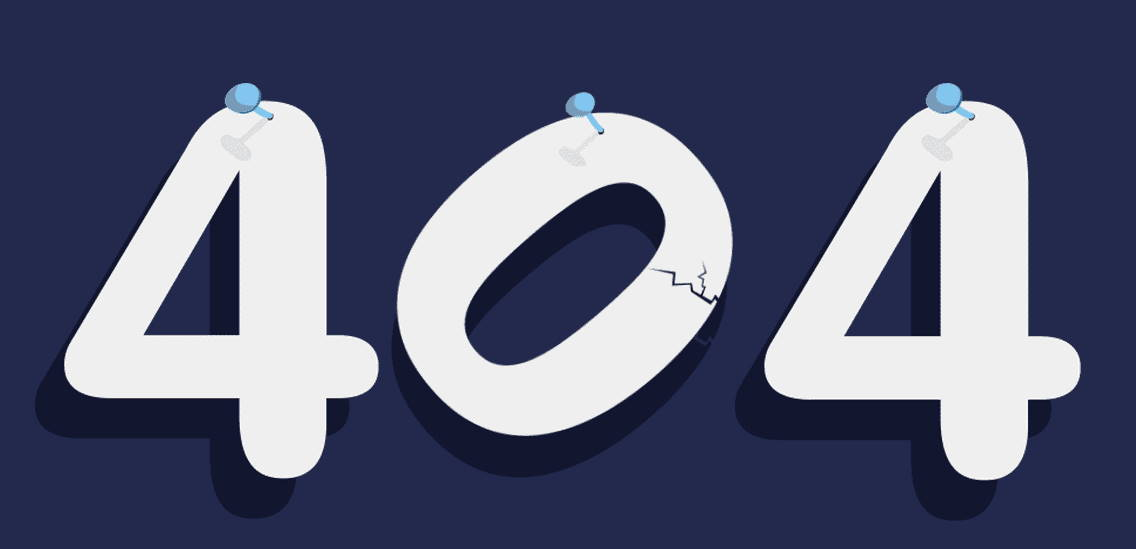
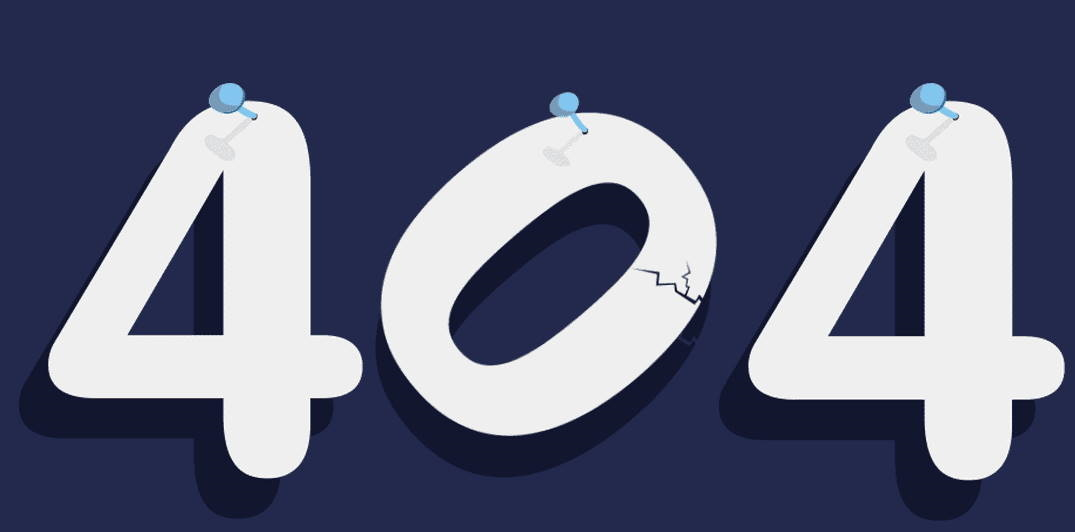
fixed

diff --git a/index.css b/index.css
@@ -7,42 +7,41 @@ body {
 main {
   background-color: #23294c;
   object-fit: contain;
-  width: 1050px;
-  height: 530px;
-  margin-left: 180px;
-  margin-top: 40px;
+  width: 1084px;
+  height: 558px;
+  margin-left: 141px;
+  margin-top: 35px;
 }
 
 #left {
   height: 100%;
-  width: 45%;
+  width: 300px;
   float: left;
   background-color: #23294c;
   object-fit: contain;
-  height: 530px;
+  margin-left: 150px;
 }
 
 #right {
   height: 100%;
-  width: 55%;
+  width: 484px;
   float: right;
   background-color: #23294c;
   object-fit: contain;
-  height: 530px;
+  margin-right: 150px;
 }
 
 #brick_wall {
   object-fit: contain;
-  width: 65%;
-  margin-top: 65px;
+  width: 100%;
+  margin-top: 75px;
   float: right;
-  margin-right: 15px;
 }
 
 #engineer {
   object-fit: contain;
-  width: 60%;
-  margin-top: 2px;
+  width: 100%;
+  margin-top: 23px;
   float: right;
   margin-right: 20px;
 }
@@ -50,12 +49,13 @@ main {
 #nr404 {
   display: inline-block;
   object-fit: contain;
-  width: 85%;
-  margin-top: 14px;
+  width: 100%;
+  margin-top: 16px;
 }
 
 .text {
-  margin-left: 30px;
+  margin-left: 25px;
+  width: 100%;
 }
 
 h1 {
@@ -74,7 +74,7 @@ p {
   margin-top: 0;
   font-weight: lighter;
   object-fit: contain;
-  width: 75%;
+  width: 100%;
 }
 
 button {
@@ -94,6 +94,7 @@ button {
 #tools {
   display: inline-block;
   object-fit: contain;
-  width: 80%;
+  width: 100%;
   margin-left: 15px;
+  margin-top: 18px;
 }
